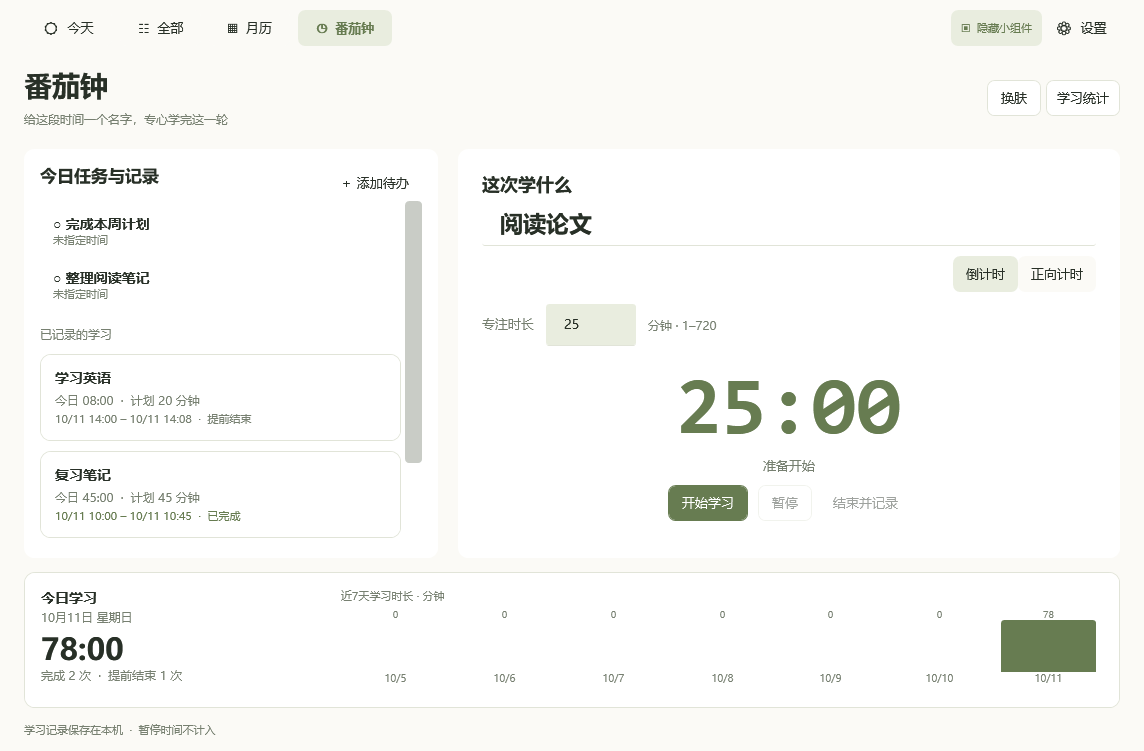
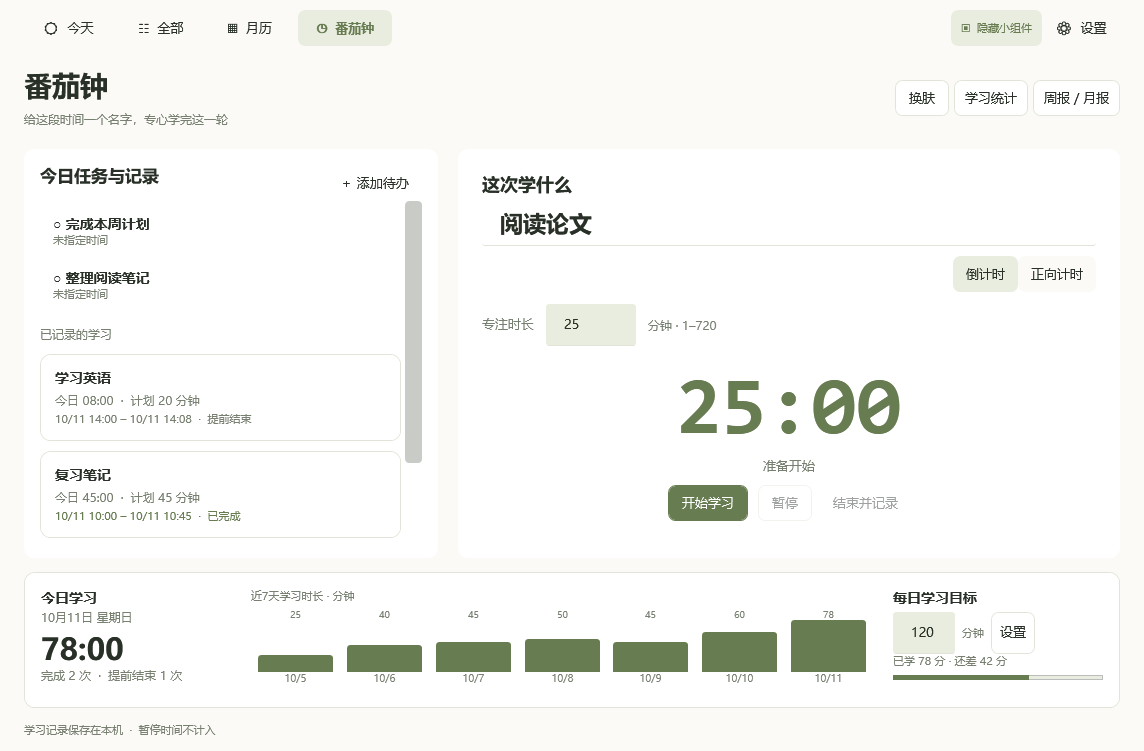
Add daily study goals, calendar period reports and todo search tags in v1.10.0

Changed region(s): [[0.2142, 0.7656, 0.979, 0.9188], [0.7955, 0.1225, 0.979, 0.1531], [0.2142, 0.7656, 0.3671, 0.8269]]

diff --git a/src/MainWindow.cs b/src/MainWindow.cs
@@ -21,6 +21,8 @@ namespace DeskTodo
         readonly Button widgetToggle;
         FocusPanel focusPanel;
         StudyStatsPanel studyStats;
+        StudyPeriodPanel studyPeriod;
+        string taskSearch = "", taskTag = "";
         string page = "月历";
         bool showCompleted = true;
         DateTime selected = DateTime.Today;
@@ -51,7 +53,7 @@ namespace DeskTodo
             status.Margin = new Thickness(0, 15, 0, 0); Grid.SetRow(status, 2); main.Children.Add(status);
         }
         public void SelectPage(string name) { page = name; Refresh(); }
-        public void RefreshFocus() { if (focusPanel != null) focusPanel.Refresh(); if (page == "学习统计" && studyStats != null) studyStats.Refresh(); }
+        public void RefreshFocus() { if (focusPanel != null) focusPanel.Refresh(); if (page == "学习统计" && studyStats != null) studyStats.Refresh(); if (page == "学习报告" && studyPeriod != null) studyPeriod.Refresh(); }
         public void SelectDay(DateTime date) { app.EnsureOccurrences(new DateTime(date.Year, date.Month, DateTime.DaysInMonth(date.Year, date.Month))); selected = date.Date; Month = new DateTime(date.Year, date.Month, 1); Refresh(); }
         public void Refresh()
         {
@@ -63,7 +65,7 @@ namespace DeskTodo
             System.Windows.Automation.AutomationProperties.SetName(widgetToggle, visible ? "隐藏桌面小组件" : "显示桌面小组件");
             foreach (var pair in navigation)
             {
-                bool active = pair.Key == page || (page == "学习统计" && pair.Key == "番茄钟");
+                bool active = pair.Key == page || ((page == "学习统计" || page == "学习报告") && pair.Key == "番茄钟");
                 pair.Value.SetResourceReference(Button.BackgroundProperty, active ? "Soft" : "Surface");
                 pair.Value.SetResourceReference(Button.ForegroundProperty, active ? "Accent" : "Text");
                 pair.Value.FontWeight = active ? FontWeights.SemiBold : FontWeights.Normal;
@@ -78,17 +80,21 @@ namespace DeskTodo
             }
             else if (page == "番茄钟") { heading.Text = "番茄钟"; subtitle.Text = "给这段时间一个名字，专心学完这一轮"; }
             else if (page == "学习统计") { heading.Text = "学习统计"; subtitle.Text = "看看时间去了哪里，也看看自己走了多远"; }
+            else if (page == "学习报告") { heading.Text = "学习周报与月报"; subtitle.Text = "按自然周和自然月回顾实际学习时间"; }
             else { heading.Text = page == "今天" ? "今天" : "全部待办"; subtitle.Text = page == "今天" ? DateTime.Today.ToString("M月d日 dddd") : "有日期与无日期的待办都在这里"; }
             Button theme = null; theme = Ui.Button("换肤", () => app.ThemeMenu(theme)); theme.Margin = new Thickness(8, 0, 0, 0); tools.Children.Add(theme);
             if (page == "番茄钟") AddTool("学习统计", () => SelectPage("学习统计"));
             if (page == "学习统计") AddTool("返回番茄钟", () => SelectPage("番茄钟"));
-            if (page != "番茄钟" && page != "学习统计") { var add = Ui.Button("＋ 添加", () => app.Edit(null, page == "全部" ? (DateTime?)null : page == "今天" ? DateTime.Today : selected), "Primary"); add.Margin = new Thickness(8, 0, 0, 0); tools.Children.Add(add); }
+            if (page == "学习统计" || page == "番茄钟") AddTool("周报 / 月报", () => SelectPage("学习报告"));
+            if (page == "学习报告") { AddTool("学习统计", () => SelectPage("学习统计")); AddTool("返回番茄钟", () => SelectPage("番茄钟")); }
+            if (page != "番茄钟" && page != "学习统计" && page != "学习报告") { var add = Ui.Button("＋ 添加", () => app.Edit(null, page == "全部" ? (DateTime?)null : page == "今天" ? DateTime.Today : selected), "Primary"); add.Margin = new Thickness(8, 0, 0, 0); tools.Children.Add(add); }
             body.Children.Clear(); body.ColumnDefinitions.Clear(); body.RowDefinitions.Clear();
-            if (page == "学习统计") { if (studyStats == null) studyStats = new StudyStatsPanel(app); body.Children.Add(studyStats); studyStats.Refresh(true); }
+            if (page == "学习报告") { if (studyPeriod == null) studyPeriod = new StudyPeriodPanel(app); body.Children.Add(studyPeriod); studyPeriod.Refresh(true); }
+            else if (page == "学习统计") { if (studyStats == null) studyStats = new StudyStatsPanel(app); body.Children.Add(studyStats); studyStats.Refresh(true); }
             else if (page == "番茄钟") { if (focusPanel == null) focusPanel = new FocusPanel(app); body.Children.Add(focusPanel); focusPanel.Refresh(true); }
             else if (page == "月历") RenderCalendar(); else RenderList();
             int pending = app.Store.State.Items.Count(i => !i.Done);
-            status.Text = page == "番茄钟" || page == "学习统计" ? "学习记录保存在本机  ·  暂停时间不计入" : "本地已保存  ·  " + pending + " 件未完成" + (app.CanUndo ? "  ·  可撤销最近一次删除" : "");
+            status.Text = page == "番茄钟" || page == "学习统计" || page == "学习报告" ? "学习记录保存在本机  ·  暂停时间不计入" : "本地已保存  ·  " + pending + " 件未完成" + (app.CanUndo ? "  ·  可撤销最近一次删除" : "");
         }
         void AddTool(string text, Action action, double width = 0)
         {
@@ -143,7 +149,22 @@ namespace DeskTodo
             filter.Click += (s, e) => { showCompleted = filter.IsChecked == true; Refresh(); }; bar.Children.Add(filter);
             if (app.CanUndo) { var undo = Ui.Button("撤销删除", app.UndoDelete, "Quiet"); undo.Margin = new Thickness(20, 0, 0, 0); bar.Children.Add(undo); }
             var list = new StackPanel(); panel.Children.Add(Ui.Scroll(list));
-            var items = app.Store.State.Items.Where(i => showCompleted || !i.Done).ToList();
+            if (page == "全部")
+            {
+                var search = new TextBox { Text = taskSearch, Width = 280, MaxLength = 200, Margin = new Thickness(20, 0, 12, 0), ToolTip = "搜索标题、备注、地点和标签" }; System.Windows.Automation.AutomationProperties.SetName(search, "待办搜索"); bar.Children.Add(search);
+                var tagChoices = new[] { "全部标签" }.Concat(app.Store.State.Items.SelectMany(i => i.Tags).Distinct(StringComparer.OrdinalIgnoreCase).OrderBy(t => t).Select(t => "#" + t)).ToList();
+                int tagIndex = taskTag == "" ? 0 : tagChoices.FindIndex(1, t => String.Equals(t, "#" + taskTag, StringComparison.OrdinalIgnoreCase)); if (tagIndex < 0) { tagIndex = 0; taskTag = ""; }
+                var tags = new ComboBox { Width = 150, ItemsSource = tagChoices, SelectedIndex = tagIndex }; System.Windows.Automation.AutomationProperties.SetName(tags, "待办标签筛选"); bar.Children.Add(tags);
+                search.TextChanged += (s, e) => { taskSearch = search.Text; FillList(list); };
+                tags.SelectionChanged += (s, e) => { taskTag = tags.SelectedIndex <= 0 ? "" : ((string)tags.SelectedItem).Substring(1); FillList(list); };
+                var clear = Ui.Button("清除", () => { search.Text = ""; tags.SelectedIndex = 0; }, "Quiet"); bar.Children.Add(clear);
+            }
+            FillList(list);
+        }
+        void FillList(StackPanel list)
+        {
+            list.Children.Clear();
+            var items = app.Store.State.Items.Where(i => (showCompleted || !i.Done) && (page != "全部" || TodoSearch.Matches(i, taskSearch, taskTag))).ToList();
             if (page == "今天")
             {
                 var overdue = items.Where(i => Dates.Overdue(i, DateTime.Today)).OrderByDescending(i => i.Important).ThenBy(i => i.Date).ThenBy(i => i.Time ?? "99:99").ToList();
@@ -155,7 +176,7 @@ namespace DeskTodo
             }
             else
             {
-                if (items.Count == 0) Ui.Empty(list, "还没有待办", "添加第一件事，也可以先不设日期");
+                if (items.Count == 0) Ui.Empty(list, "没有匹配的待办", "清除搜索或标签筛选，也可以添加新的待办");
                 else foreach (var group in items.GroupBy(TodoGroups.Key).OrderBy(g => g.All(i => i.Done)).ThenByDescending(g => g.Any(i => i.Important)).ThenBy(g => g.Min(i => i.Date ?? "9999-99-99")).ThenBy(g => g.Min(i => i.Time ?? "99:99")))
                 {
                     var occurrences = group.OrderBy(i => i.Date).ThenBy(i => i.Time ?? "99:99").ThenBy(i => i.CreatedUtc).ToList();

diff --git a/src/UiSmoke.cs b/src/UiSmoke.cs
@@ -179,6 +179,7 @@ namespace DeskTodo
                 Check(Controls<ComboBox>(editor).Any(c => AutomationProperties.GetName(c) == "待办小时") && Controls<ComboBox>(editor).Any(c => AutomationProperties.GetName(c) == "待办分钟"), "editor offers hour and minute selection");
                 Controls<TextBox>(editor).First(t => AutomationProperties.GetName(t) == "待办标题").Text = "界面输入测试";
                 Controls<TextBox>(editor).First(t => AutomationProperties.GetName(t) == "待办地点").Text = "会议室 A";
+                Controls<TextBox>(editor).First(t => AutomationProperties.GetName(t) == "待办标签").Text = "工作，会议,工作";
                 var timedCheck = Controls<CheckBox>(editor).First(c => (c.Content as string) == "指定时间");
                 timedCheck.IsChecked = true; timedCheck.RaiseEvent(new RoutedEventArgs(ButtonBase.ClickEvent));
                 var hourChoice = Controls<ComboBox>(editor).First(c => AutomationProperties.GetName(c) == "待办小时");
@@ -194,6 +195,7 @@ namespace DeskTodo
                 Controls<Button>(editor).First(b => (b.Content as string) == "保存待办").RaiseEvent(new RoutedEventArgs(Button.ClickEvent));
                 Check(app.Store.State.Items.Any(i => i.Title == "界面输入测试"), "real editor save button adds task");
                 Check(app.Store.State.Items.Any(i => i.Title == "界面输入测试" && i.Time == "14:35" && i.Location == "会议室 A"), "editor saves chosen time and location");
+                Check(app.Store.State.Items.First(i => i.Title == "界面输入测试").Tags.SequenceEqual(new[] { "工作", "会议" }), "editor persists deduplicated tags");
                 Check(app.Widget.DisplayedCount == 4, "real editor synchronizes widget");
                 app.Widget.UpdateLayout();
                 Check(Controls<TextBlock>(app.Widget).Any(t => t.Text.Contains("14:35")) && Controls<TextBlock>(app.Widget).Any(t => t.Text.Contains("会议室 A")), "widget displays time and location");
@@ -374,6 +376,34 @@ namespace DeskTodo
                 foreach (string skin in new[] { "light", "dark", "warm" }) { app.ChangeTheme(skin); app.Main.UpdateLayout(); Capture(app.Main, Path.Combine(root, "study-statistics-" + skin + ".png")); }
                 var statsPage = Controls<StudyStatsPanel>(app.Main).First(); statsPage.ScrollToBottom(); app.Main.UpdateLayout(); Capture(app.Main, Path.Combine(root, "study-records.png")); statsPage.ScrollToTop();
                 app.Main.Width = 960; app.Main.Height = 650; app.Main.UpdateLayout(); Capture(app.Main, Path.Combine(root, "study-statistics-small.png")); app.Main.Width = 1160; app.Main.Height = 790;
+                app.Main.SelectPage("番茄钟");
+                var dailyGoal = Controls<TextBox>(app.Main).First(t => AutomationProperties.GetName(t) == "每日目标分钟"); dailyGoal.Text = "120";
+                Controls<Button>(app.Main).First(b => AutomationProperties.GetName(b) == "保存每日目标").RaiseEvent(new RoutedEventArgs(Button.ClickEvent));
+                Check(app.Store.State.DailyGoalMinutes == 120 && DataStore.ReadState(Path.Combine(app.Store.DirectoryPath, "tasks.json")).DailyGoalMinutes == 120, "daily goal saves through atomic storage");
+                Check(Controls<TextBlock>(app.Main).Any(t => t.Text == "已学 78 分 · 还差 42 分"), "daily goal uses actual completed and early-ended time");
+                dailyGoal.Text = "60"; Controls<Button>(app.Main).First(b => AutomationProperties.GetName(b) == "保存每日目标").RaiseEvent(new RoutedEventArgs(Button.ClickEvent));
+                Check(Controls<TextBlock>(app.Main).Any(t => t.Text == "今日目标已达成 ✓"), "goal completion appears without changing task state");
+                dailyGoal.Text = "1441"; Controls<Button>(app.Main).First(b => AutomationProperties.GetName(b) == "保存每日目标").RaiseEvent(new RoutedEventArgs(Button.ClickEvent));
+                Check(app.Store.State.DailyGoalMinutes == 60 && Controls<TextBlock>(app.Main).Any(t => t.Text == "请输入 0–1440 分钟"), "invalid goal leaves saved target intact");
+                dailyGoal.Text = "120"; Controls<Button>(app.Main).First(b => AutomationProperties.GetName(b) == "保存每日目标").RaiseEvent(new RoutedEventArgs(Button.ClickEvent)); app.Main.UpdateLayout(); Capture(app.Main, Path.Combine(root, "daily-goal.png"));
+                Controls<Button>(app.Main).First(b => (b.Content as string) == "周报 / 月报").RaiseEvent(new RoutedEventArgs(Button.ClickEvent)); app.Main.UpdateLayout();
+                Check(Controls<TextBlock>(app.Main).Any(t => t.Text.StartsWith("比上周同期")) && Controls<TextBlock>(app.Main).Any(t => t.Text == "主要学习内容"), "weekly report shows comparison and learning breakdown"); Capture(app.Main, Path.Combine(root, "study-weekly.png"));
+                var reportMode = Controls<ComboBox>(app.Main).First(c => AutomationProperties.GetName(c) == "学习报告周期"); reportMode.SelectedIndex = 1; app.Main.UpdateLayout();
+                Check(Controls<TextBlock>(app.Main).Any(t => t.Text.StartsWith("比上月同期")), "monthly report uses calendar month and prior month comparison"); Capture(app.Main, Path.Combine(root, "study-monthly.png"));
+                app.Main.Width = 960; app.Main.Height = 650; app.Main.UpdateLayout(); Capture(app.Main, Path.Combine(root, "study-monthly-small.png")); app.Main.Width = 1160; app.Main.Height = 790;
+                Controls<DatePicker>(app.Main).First(p => AutomationProperties.GetName(p) == "学习报告日期").SelectedDate = DateTime.Today.AddYears(-2);
+                Check(Controls<TextBlock>(app.Main).Any(t => t.Text == "本期还没有学习时长"), "empty historical report shows no fabricated activity");
+                var searchable = new TodoItem { Id = Guid.NewGuid().ToString("N"), Title = "组会资料整理", Location = "B528", Note = "准备报告", Tags = new List<string> { "科研", "全部标签" } }; app.SaveTodo(searchable, null, null);
+                app.SaveTodo(new TodoItem { Id = Guid.NewGuid().ToString("N"), Title = "参会事项", Location = "A228", Tags = new List<string> { "会议" } }, null, null); app.Main.SelectPage("全部");
+                var taskSearch = Controls<TextBox>(app.Main).First(t => AutomationProperties.GetName(t) == "待办搜索"); taskSearch.Text = "B528"; app.Main.UpdateLayout();
+                Check(Controls<CheckBox>(app.Main).Count(c => AutomationProperties.GetName(c).StartsWith("完成 ")) == 1 && Controls<TextBlock>(app.Main).Any(t => t.Text == "组会资料整理"), "todo location search narrows real task list");
+                var tagFilter = Controls<ComboBox>(app.Main).First(c => AutomationProperties.GetName(c) == "待办标签筛选"); tagFilter.SelectedItem = "#科研";
+                Check(Controls<TextBlock>(app.Main).Any(t => t.Text.Contains("#科研")), "matching tag and query show task labels"); Capture(app.Main, Path.Combine(root, "todo-search-tags.png"));
+                tagFilter.SelectedItem = "#会议"; Check(Controls<TextBlock>(app.Main).Any(t => t.Text == "没有匹配的待办"), "combined todo filters exclude unrelated tasks");
+                Controls<Button>(app.Main).First(b => (b.Content as string) == "清除").RaiseEvent(new RoutedEventArgs(Button.ClickEvent));
+                Check(taskSearch.Text == "" && tagFilter.SelectedIndex == 0, "clear restores all todo filters");
+                tagFilter.SelectedIndex = ((List<string>)tagFilter.ItemsSource).FindLastIndex(t => t == "#全部标签"); app.Main.Refresh(); app.Main.UpdateLayout();
+                Check(Controls<ComboBox>(app.Main).First(c => AutomationProperties.GetName(c) == "待办标签筛选").SelectedIndex > 0 && Controls<CheckBox>(app.Main).Count(c => AutomationProperties.GetName(c).StartsWith("完成 ")) == 1, "a tag named all tags remains a real filter across refresh");
                 app.Main.SelectPage("月历");
                 app.Main.Close();
                 Check(!app.Main.IsVisible && app.Widget.IsVisible, "closing main leaves widget running");

diff --git a/src/Core.cs b/src/Core.cs
@@ -17,13 +17,24 @@ namespace DeskTodo
         [DataMember(EmitDefaultValue = false)] public string Time;
         [DataMember(EmitDefaultValue = false)] public string Location;
         [DataMember] public string Note = "";
+        [DataMember] public List<string> Tags = new List<string>();
+        [OnDeserializing] void Defaults(StreamingContext c) { Tags = new List<string>(); }
         [DataMember] public string CreatedUtc;
         [DataMember] public bool Done;
         [DataMember(EmitDefaultValue = false)] public bool Important;
         [DataMember(EmitDefaultValue = false)] public bool Reminder;
         [DataMember(EmitDefaultValue = false)] public string NotifiedFor;
         [DataMember(EmitDefaultValue = false)] public string SeriesId;
-        public TodoItem Copy() { return (TodoItem)MemberwiseClone(); }
+        public TodoItem Copy() { var copy = (TodoItem)MemberwiseClone(); copy.Tags = Tags == null ? null : new List<string>(Tags); return copy; }
+    }
+
+    public static class TodoSearch
+    {
+        public static List<string> ParseTags(string text) { return (text ?? "").Split(new[] { ',', '，', ';', '；' }, StringSplitOptions.RemoveEmptyEntries).Select(t => t.Trim()).Where(t => t.Length > 0).Distinct(StringComparer.OrdinalIgnoreCase).ToList(); }
+        public static bool Matches(TodoItem item, string query, string tag)
+        {
+            return (String.IsNullOrEmpty(tag) || item.Tags.Contains(tag, StringComparer.OrdinalIgnoreCase)) && (String.IsNullOrWhiteSpace(query) || new[] { item.Title, item.Note, item.Location, String.Join(" ", item.Tags) }.Any(value => value != null && value.IndexOf(query.Trim(), StringComparison.OrdinalIgnoreCase) >= 0));
+        }
     }
 
     public static class TodoGroups
@@ -32,23 +43,25 @@ namespace DeskTodo
         {
             if (item.SeriesId != null) return "series:" + item.SeriesId;
             if (item.Date == null) return "item:" + item.Id;
-            return "dated:" + String.Concat(new[] { item.Title, item.Time ?? "", item.Location ?? "", item.Note ?? "", item.Reminder.ToString() }.Select(value => value.Length.ToString(CultureInfo.InvariantCulture) + ":" + value));
+            return "dated:" + String.Concat(new[] { item.Title, item.Time ?? "", item.Location ?? "", item.Note ?? "", item.Reminder.ToString(), String.Join("\u001f", item.Tags.OrderBy(t => t, StringComparer.OrdinalIgnoreCase)) }.Select(value => value.Length.ToString(CultureInfo.InvariantCulture) + ":" + value));
         }
     }
 
     [DataContract]
     public class TodoState
     {
-        [DataMember(IsRequired = true)] public int Version = 5;
+        [DataMember(IsRequired = true)] public int Version = 6;
+        [DataMember] public int DailyGoalMinutes;
         [DataMember(IsRequired = true)] public List<TodoItem> Items = new List<TodoItem>();
         [DataMember] public List<RepeatSeries> Series = new List<RepeatSeries>();
         [DataMember] public List<FocusSession> FocusHistory = new List<FocusSession>();
         [DataMember(EmitDefaultValue = false)] public FocusSession ActiveFocus;
         [OnDeserializing] void Defaults(StreamingContext c) { Series = new List<RepeatSeries>(); FocusHistory = new List<FocusSession>(); }
-        public TodoState Copy() { return new TodoState { Items = Items.Select(i => i.Copy()).ToList(), Series = Series.Select(s => s.Copy()).ToList(), FocusHistory = FocusHistory.Select(f => f.Copy()).ToList(), ActiveFocus = ActiveFocus == null ? null : ActiveFocus.Copy() }; }
+        public TodoState Copy() { return new TodoState { DailyGoalMinutes = DailyGoalMinutes, Items = Items.Select(i => i.Copy()).ToList(), Series = Series.Select(s => s.Copy()).ToList(), FocusHistory = FocusHistory.Select(f => f.Copy()).ToList(), ActiveFocus = ActiveFocus == null ? null : ActiveFocus.Copy() }; }
         public void Validate()
         {
-            if (Version < 1 || Version > 5) throw new InvalidDataException("不支持这个数据版本，请使用对应版本的软件。");
+            if (Version < 1 || Version > 6) throw new InvalidDataException("不支持这个数据版本，请使用对应版本的软件。");
+            if (DailyGoalMinutes < 0 || DailyGoalMinutes > 1440) throw new InvalidDataException("每日目标应为 0 至 1440 分钟，0 表示关闭目标。");
             if (FocusHistory == null || FocusHistory.Count > 10000) throw new InvalidDataException("学习记录无效或超过 10000 次，请先导出备份。");
             var focusIds = new HashSet<string>();
             foreach (var focus in FocusHistory) { if (focus == null || !focusIds.Add(focus.Id)) throw new InvalidDataException("学习记录重复或无效。"); focus.Validate(false); }
@@ -69,6 +82,7 @@ namespace DeskTodo
                 if (i == null || !Guid.TryParse(i.Id, out id) || !ids.Add(i.Id)) throw new InvalidDataException("待办编号无效或重复。");
                 if (String.IsNullOrWhiteSpace(i.Title) || i.Title.Length > 200) throw new InvalidDataException("标题不能为空，最多 200 字。");
                 if (i.Note != null && i.Note.Length > 4000) throw new InvalidDataException("备注最多 4000 字。");
+                if (i.Tags == null || i.Tags.Count > 10 || i.Tags.Any(t => String.IsNullOrWhiteSpace(t) || t != t.Trim() || t.Length > 20 || t.IndexOfAny(new[] { ',', '，', ';', '；' }) >= 0) || i.Tags.Distinct(StringComparer.OrdinalIgnoreCase).Count() != i.Tags.Count) throw new InvalidDataException("最多 10 个标签，每个最多 20 字，不能重复或含分隔符。");
                 DateTime parsed;
                 if (i.Date != null && !DateTime.TryParseExact(i.Date, "yyyy-MM-dd", CultureInfo.InvariantCulture, DateTimeStyles.None, out parsed)) throw new InvalidDataException("待办日期无效。");
                 if (i.Time != null && (i.Date == null || !DateTime.TryParseExact(i.Time, "HH:mm", CultureInfo.InvariantCulture, DateTimeStyles.None, out parsed))) throw new InvalidDataException("时间需要指定日期，并使用 00:00 至 23:59 的格式。");
@@ -116,6 +130,12 @@ namespace DeskTodo
 
     public static class Study
     {
+        public static DateTime[] PeriodRange(DateTime day, bool monthly)
+        {
+            day = day.Date;
+            var start = monthly ? new DateTime(day.Year, day.Month, 1) : day.AddDays(-((int)day.DayOfWeek + 6) % 7);
+            return new[] { start, monthly ? start.AddDays(DateTime.DaysInMonth(day.Year, day.Month) - 1) : start.AddDays(6) };
+        }
         public static void Start(TodoState state, string title, int minutes, DateTimeOffset now, bool countUp = false)
         {
             if (state.ActiveFocus != null) throw new InvalidOperationException("请先结束当前学习。");
@@ -365,7 +385,7 @@ namespace DeskTodo
         void Commit(TodoState next)
         {
             if (lease == null) throw new ObjectDisposedException("DataStore");
-            next.Validate(); next.Version = 5; JsonFile.Write(FilePath, next); State = next;
+            next.Validate(); next.Version = 6; JsonFile.Write(FilePath, next); State = next;
         }
         public void Change(Action<List<TodoItem>> edit) { var next = State.Copy(); edit(next.Items); Commit(next); }
         public void ChangeState(Action<TodoState> edit) { var next = State.Copy(); edit(next); Commit(next); }

diff --git a/src/StudyStats.cs b/src/StudyStats.cs
@@ -10,6 +10,49 @@ using System.Windows.Media;
 
 namespace DeskTodo
 {
+    public class StudyPeriodPanel : ScrollViewer
+    {
+        readonly AppController app;
+        readonly StackPanel root = new StackPanel(), reportContent = new StackPanel();
+        readonly ComboBox mode = new ComboBox { ItemsSource = new[] { "周报", "月报" }, SelectedIndex = 0, Width = 100 };
+        readonly DatePicker date = new DatePicker { SelectedDate = DateTime.Today, FirstDayOfWeek = DayOfWeek.Monday, Width = 160 };
+        string reportKey;
+        public StudyPeriodPanel(AppController controller)
+        {
+            app = controller; Content = root; VerticalScrollBarVisibility = ScrollBarVisibility.Auto; HorizontalScrollBarVisibility = ScrollBarVisibility.Disabled;
+            var bar = new StackPanel { Orientation = Orientation.Horizontal, Margin = new Thickness(0, 0, 0, 18) }; AutomationProperties.SetName(mode, "学习报告周期"); AutomationProperties.SetName(date, "学习报告日期"); date.DisplayDateStart = new DateTime(2, 1, 1); date.DisplayDateEnd = DateTime.Today;
+            bar.Children.Add(mode); date.Margin = new Thickness(12, 0, 12, 0); bar.Children.Add(date); bar.Children.Add(Ui.Button("本期", () => date.SelectedDate = DateTime.Today)); root.Children.Add(bar); root.Children.Add(reportContent);
+            mode.SelectionChanged += (s, e) => Refresh(true); date.SelectedDateChanged += (s, e) => Refresh(true); Refresh(true);
+        }
+        static string Duration(double seconds) { return ((int)(seconds / 3600)) + " 小时 " + ((int)(seconds % 3600 / 60)) + " 分"; }
+        static Border Metric(string title, string value) { var panel = new StackPanel(); panel.Children.Add(Ui.Text(title, 12, "Muted")); var number = Ui.Text(value, 24, "Accent", true); number.Margin = new Thickness(0, 8, 0, 0); panel.Children.Add(number); var card = Ui.Card(panel, new Thickness(16)); card.Margin = new Thickness(0, 0, 12, 0); return card; }
+        public void Refresh(bool force = false)
+        {
+            date.DisplayDateEnd = DateTime.Today; var chosen = (date.SelectedDate ?? DateTime.Today).Date; if (chosen > DateTime.Today) chosen = DateTime.Today;
+            string key = Dates.Key(chosen) + ":" + Dates.Key(DateTime.Today) + ":" + mode.SelectedIndex + ":" + app.Store.State.FocusHistory.Count + ":" + (app.Store.State.FocusHistory.LastOrDefault() == null ? "" : app.Store.State.FocusHistory.Last().Id) + ":" + (app.Store.State.ActiveFocus == null ? "" : app.Store.State.ActiveFocus.Id) + ":" + Math.Floor(app.FocusSeconds / 5);
+            if (!force && key == reportKey) return; reportKey = key;
+            bool monthly = mode.SelectedIndex == 1; var range = Study.PeriodRange(chosen, monthly); var end = range[1] < DateTime.Today ? range[1] : DateTime.Today;
+            var sessions = app.Store.State.FocusHistory.ToList(); var active = app.FocusSnapshot(); if (active != null) sessions.Add(active); var report = Study.Summarize(sessions, range[0], end);
+            var prior = Study.PeriodRange(monthly ? range[0].AddMonths(-1) : range[0].AddDays(-7), monthly); var previousEnd = prior[0].AddDays((end - range[0]).Days); if (previousEnd > prior[1]) previousEnd = prior[1]; var previous = Study.Summarize(sessions, prior[0], previousEnd);
+            reportContent.Children.Clear(); var heading = Ui.Text(range[0].ToString("yyyy年M月d日") + " – " + range[1].ToString("M月d日"), 23, "Text", true); reportContent.Children.Add(heading);
+            var hint = Ui.Text("统计至 " + end.ToString("M月d日") + " · 实际计时，含提前结束与进行中的学习 · 不包含待办", 12, "Muted"); hint.Margin = new Thickness(0, 6, 0, 18); reportContent.Children.Add(hint);
+            var summary = new UniformGrid { Columns = 4, Margin = new Thickness(0, 0, 0, 18) }; summary.Children.Add(Metric("学习总时长", Duration(report.TotalSeconds))); summary.Children.Add(Metric("学习天数", report.SecondsByDay.Count(p => p.Value > 0) + " 天")); summary.Children.Add(Metric("完成次数", report.Completed + " 次")); summary.Children.Add(Metric("日均时长（含未学习日）", Duration(report.TotalSeconds / report.SecondsByDay.Count))); reportContent.Children.Add(summary);
+            double difference = report.TotalSeconds - previous.TotalSeconds;
+            var compare = Ui.Text("比上" + (monthly ? "月" : "周") + "同期" + (difference >= 0 ? "增加 " : "减少 ") + Duration(Math.Abs(difference)) + " · 对比 " + prior[0].ToString("M/d") + " – " + previousEnd.ToString("M/d"), 13, "Muted"); compare.Margin = new Thickness(0, 0, 0, 18); reportContent.Children.Add(compare);
+            var chartPanel = new StackPanel(); chartPanel.Children.Add(Ui.Text("每日学习时长 · 分钟", 16, "Text", true)); var chart = new UniformGrid { Columns = report.SecondsByDay.Count, Margin = new Thickness(0, 16, 0, 0) }; double max = Math.Max(60, report.SecondsByDay.Values.Max());
+            foreach (var pair in report.SecondsByDay.OrderBy(p => p.Key))
+            {
+                var column = new StackPanel { Margin = new Thickness(monthly ? 2 : 8, 0, monthly ? 2 : 8, 0), ToolTip = pair.Key + " · " + Duration(pair.Value) }; var value = Ui.Text((pair.Value / 60).ToString("0.#"), monthly ? 9 : 11, "Muted"); value.TextAlignment = TextAlignment.Center; column.Children.Add(value);
+                var plot = new Grid { Height = 140 }; var fill = new Border { Height = pair.Value / max * 140, VerticalAlignment = VerticalAlignment.Bottom, CornerRadius = new CornerRadius(3, 3, 0, 0) }; fill.SetResourceReference(Border.BackgroundProperty, "Accent"); plot.Children.Add(fill); column.Children.Add(plot);
+                var label = Ui.Text(DateTime.ParseExact(pair.Key, "yyyy-MM-dd", CultureInfo.InvariantCulture).ToString(monthly ? "%d" : "M/d"), 10, "Muted"); label.TextAlignment = TextAlignment.Center; label.Margin = new Thickness(0, 6, 0, 0); column.Children.Add(label); chart.Children.Add(column);
+            }
+            chartPanel.Children.Add(chart); var chartCard = Ui.Card(chartPanel, new Thickness(18)); chartCard.Margin = new Thickness(0, 0, 0, 18); reportContent.Children.Add(chartCard);
+            var ranking = new StackPanel(); ranking.Children.Add(Ui.Text("主要学习内容", 16, "Text", true));
+            if (report.TotalSeconds == 0) Ui.Empty(ranking, "本期还没有学习时长", "开始计时后，学习记录会自动汇总到这里");
+            foreach (var pair in report.SecondsByTitle.OrderByDescending(p => p.Value).ThenBy(p => p.Key).Take(5)) { var item = Ui.Text(pair.Key + "  ·  " + Duration(pair.Value) + "  ·  " + (pair.Value / report.TotalSeconds * 100).ToString("0.#") + "%", 13, "Text"); item.Margin = new Thickness(0, 10, 0, 0); ranking.Children.Add(item); }
+            var best = report.SecondsByDay.OrderByDescending(p => p.Value).ThenBy(p => p.Key).First(); if (best.Value > 0) { var peak = Ui.Text("学习最多的一天：" + best.Key + " · " + Duration(best.Value), 12, "Muted"); peak.Margin = new Thickness(0, 16, 0, 0); ranking.Children.Add(peak); } reportContent.Children.Add(Ui.Card(ranking, new Thickness(18)));
+        }
+    }
     public class StudyStatsPanel : ScrollViewer
     {
         readonly AppController app;

diff --git a/src/Focus.cs b/src/Focus.cs
@@ -122,6 +122,9 @@ namespace DeskTodo
         readonly TextBlock total = Ui.Text("00:00", 32, "Text", true);
         readonly TextBlock count = Ui.Text("", 12, "Muted");
         readonly StackPanel history = new StackPanel();
+        readonly TextBox goalMinutes = new TextBox { Width = 62, MaxLength = 4, ToolTip = "每天 1–1440 分钟；填 0 关闭目标" };
+        readonly TextBlock goalStatus = Ui.Text("", 11, "Muted");
+        readonly ProgressBar goalProgress = new ProgressBar { Minimum = 0, Maximum = 100, Height = 5, Margin = new Thickness(0, 7, 0, 0) };
         readonly Button start, pause, finish;
         Button downMode, upMode;
         readonly StackPanel taskList = new StackPanel();
@@ -152,9 +155,13 @@ namespace DeskTodo
             var addTask = Ui.Button("＋ 添加待办", () => app.Edit(null, DateTime.Today), "Quiet"); DockPanel.SetDock(addTask, Dock.Right); listHeader.Children.Add(addTask); listHeader.Children.Add(Ui.Text("今日任务与记录", 17, "Text", true));
             var listContent = new StackPanel(); listContent.Children.Add(taskList); var recorded = Ui.Text("已记录的学习", 12, "Muted"); recorded.Margin = new Thickness(0, 18, 0, 12); listContent.Children.Add(recorded); listContent.Children.Add(history);
             stats.Children.Add(Ui.Scroll(listContent)); var statsCard = Ui.Card(stats, new Thickness(16)); statsCard.BorderThickness = new Thickness(0); statsCard.Margin = new Thickness(0, 0, 0, 14); Children.Add(statsCard);
-            var band = new Grid(); band.ColumnDefinitions.Add(new ColumnDefinition { Width = new GridLength(300) }); band.ColumnDefinitions.Add(new ColumnDefinition());
+            var band = new Grid(); band.ColumnDefinitions.Add(new ColumnDefinition { Width = new GridLength(210) }); band.ColumnDefinitions.Add(new ColumnDefinition()); band.ColumnDefinitions.Add(new ColumnDefinition { Width = new GridLength(230) });
             var summary = new StackPanel(); summary.Children.Add(Ui.Text("今日学习", 14, "Text", true)); dayLabel.Margin = new Thickness(0, 3, 0, 5); summary.Children.Add(dayLabel); total.FontSize = 30; summary.Children.Add(total); summary.Children.Add(count); band.Children.Add(summary);
             var trendPanel = new StackPanel(); trendPanel.Children.Add(Ui.Text("近7天学习时长 · 分钟", 11, "Muted")); trend.Margin = new Thickness(0, 6, 0, 0); trendPanel.Children.Add(trend); Grid.SetColumn(trendPanel, 1); band.Children.Add(trendPanel);
+            var goal = new StackPanel { Margin = new Thickness(20, 0, 0, 0) }; goal.Children.Add(Ui.Text("每日学习目标", 14, "Text", true));
+            var goalRow = new StackPanel { Orientation = Orientation.Horizontal, Margin = new Thickness(0, 5, 0, 0) }; goalMinutes.Text = app.Store.State.DailyGoalMinutes.ToString(); AutomationProperties.SetName(goalMinutes, "每日目标分钟"); goalRow.Children.Add(goalMinutes);
+            var goalUnit = Ui.Text("分钟", 11, "Muted"); goalUnit.VerticalAlignment = VerticalAlignment.Center; goalUnit.Margin = new Thickness(7, 0, 7, 0); goalRow.Children.Add(goalUnit);
+            var saveGoal = Ui.Button("设置", () => { int value; if (!Int32.TryParse(goalMinutes.Text.Trim(), out value) || value < 0 || value > 1440) { goalStatus.Text = "请输入 0–1440 分钟"; return; } if (app.SetDailyGoal(value)) Refresh(); }); AutomationProperties.SetName(saveGoal, "保存每日目标"); saveGoal.Padding = new Thickness(8, 4, 8, 4); goalRow.Children.Add(saveGoal); goal.Children.Add(goalRow); goal.Children.Add(goalStatus); goalProgress.SetResourceReference(ProgressBar.ForegroundProperty, "Accent"); goalProgress.SetResourceReference(ProgressBar.BackgroundProperty, "Soft"); goal.Children.Add(goalProgress); Grid.SetColumn(goal, 2); band.Children.Add(goal);
             var bandCard = Ui.Card(band, new Thickness(16)); Grid.SetRow(bandCard, 1); Grid.SetColumnSpan(bandCard, 2); Children.Add(bandCard);
             minutes.TextChanged += (s, e) => { if (app.Store.State.ActiveFocus == null) { int value; if (Int32.TryParse(minutes.Text, out value) && value >= 1 && value <= 720) countdown.Text = Study.FormatDuration(value * 60); } };
             mode.SelectionChanged += (s, e) => Refresh();
@@ -174,6 +181,9 @@ namespace DeskTodo
             var records = app.Store.State.FocusHistory.Where(f => Study.SecondsOn(f, today) > 0 || DateTimeOffset.ParseExact(f.EndedAt, "o", CultureInfo.InvariantCulture).Date == today).ToList();
             double seconds = records.Sum(f => Study.SecondsOn(f, today)); var current = app.FocusSnapshot(); if (current != null) seconds += Study.SecondsOn(current, today);
             total.Text = Study.FormatDuration(seconds);
+            int target = app.Store.State.DailyGoalMinutes; goalProgress.Value = target == 0 ? 0 : Math.Min(100, seconds / (target * 60) * 100); goalProgress.Visibility = target == 0 ? Visibility.Collapsed : Visibility.Visible;
+            goalStatus.Text = target == 0 ? "未设置目标 · 填 0 可关闭" : seconds >= target * 60 ? "今日目标已达成 ✓" : "已学 " + (int)(seconds / 60) + " 分 · 还差 " + (int)Math.Ceiling(target - seconds / 60) + " 分";
+            if (!goalMinutes.IsKeyboardFocusWithin) goalMinutes.Text = target.ToString();
             RefreshTasksAndTrend(today, current);
             int completed = records.Count(f => f.Completed && DateTimeOffset.ParseExact(f.EndedAt, "o", CultureInfo.InvariantCulture).Date == today);
             int ended = records.Count(f => !f.Completed && DateTimeOffset.ParseExact(f.EndedAt, "o", CultureInfo.InvariantCulture).Date == today);

diff --git a/src/CoreTests.cs b/src/CoreTests.cs
@@ -16,6 +16,22 @@ class CoreTests
         Directory.CreateDirectory(root);
         try
         {
+            var tagged = Item("组会", "2026-10-11"); tagged.Tags = TodoSearch.ParseTags("科研，生活, 科研 ; Paper;paper"); tagged.Location = "B528";
+            Check(tagged.Tags.SequenceEqual(new[] { "科研", "生活", "Paper" }), "tag input trims and deduplicates Chinese and English separators");
+            Check(TodoSearch.Matches(tagged, "B528", "科研") && TodoSearch.Matches(tagged, "paper", ""), "todo search includes location and case insensitive tags");
+            Check(!TodoSearch.Matches(tagged, "组会", "课程") && !TodoSearch.Matches(tagged, "不存在", "科研"), "text and tag filters combine without unrelated matches");
+            var taggedState = new TodoState { DailyGoalMinutes = 120, Items = new List<TodoItem> { tagged } }; var tagCopy = taggedState.Copy(); tagCopy.Items[0].Tags.Add("副本");
+            Check(tagged.Tags.Count == 3 && tagCopy.DailyGoalMinutes == 120, "atomic state copies deep copy tags and preserve goal");
+            string taggedPath = Path.Combine(root, "tagged.json"); JsonFile.Write(taggedPath, taggedState); var tagRestore = DataStore.ReadState(taggedPath);
+            Check(tagRestore.DailyGoalMinutes == 120 && tagRestore.Items[0].Tags.SequenceEqual(tagged.Tags), "goals and tags survive export and reload");
+            taggedState.DailyGoalMinutes = 1441; Throws(() => taggedState.Validate(), "goal rejects more than one day"); taggedState.DailyGoalMinutes = 0; taggedState.Validate();
+            tagged.Tags.Add(new string('字', 21)); Throws(() => taggedState.Validate(), "oversized tags are rejected at storage boundary"); tagged.Tags.RemoveAt(3);
+            var weekRange = Study.PeriodRange(new DateTime(2026, 10, 11), false);
+            Check(weekRange[0] == new DateTime(2026, 10, 5) && weekRange[1] == new DateTime(2026, 10, 11), "weekly reports run Monday through Sunday");
+            var monthRange = Study.PeriodRange(new DateTime(2024, 2, 12), true);
+            Check(monthRange[0] == new DateTime(2024, 2, 1) && monthRange[1] == new DateTime(2024, 2, 29), "monthly reports use leap year calendar boundaries");
+            var yearWeek = Study.PeriodRange(new DateTime(2027, 1, 1), false);
+            Check(yearWeek[0] == new DateTime(2026, 12, 28) && yearWeek[1] == new DateTime(2027, 1, 3), "weekly report crosses year boundaries");
             var repeatedA = Item("刷网课", "2026-10-11"); var repeatedB = Item("刷网课", "2026-10-12");
             Check(TodoGroups.Key(repeatedA) == TodoGroups.Key(repeatedB), "identical dated tasks share display group without changing records");
             repeatedB.Location = "不同地点"; Check(TodoGroups.Key(repeatedA) != TodoGroups.Key(repeatedB), "same title with different task content stays separate");
@@ -150,10 +166,10 @@ class CoreTests
                 timedStore.Import(timedPath);
                 string timedExport = Path.Combine(root, "时间地点备份.json"); timedStore.Export(timedExport);
                 var roundtrip = DataStore.ReadState(timedExport);
-                Check(roundtrip.Version == 5 && roundtrip.Items[0].Time == "14:35" && roundtrip.Items[0].Location == "会议室 A", "time location backup roundtrip and new format");
+                Check(roundtrip.Version == 6 && roundtrip.Items[0].Time == "14:35" && roundtrip.Items[0].Location == "会议室 A", "time location backup roundtrip and new format");
                 JsonFile.Write(timedPath, legacyState);
                 timedStore.Import(timedPath);
-                Check(DataStore.ReadState(Path.Combine(timedStore.DirectoryPath, "tasks.json")).Version == 5, "saving legacy data upgrades format without losing records");
+                Check(DataStore.ReadState(Path.Combine(timedStore.DirectoryPath, "tasks.json")).Version == 6, "saving legacy data upgrades format without losing records");
             }
             Check(Dates.GridStart(new DateTime(2026, 10, 1)) == new DateTime(2026, 9, 28), "October Monday-first grid");
             Check(Dates.GridStart(new DateTime(2027, 1, 1)) == new DateTime(2026, 12, 28), "calendar crosses year");

diff --git a/src/Ui.cs b/src/Ui.cs
@@ -60,6 +60,7 @@ namespace DeskTodo
             if (flat) date = (item.Time ?? "未指定时间") + (String.IsNullOrWhiteSpace(item.Location) ? "" : "  ·  " + item.Location);
             var label = Text(date, 10, Dates.Overdue(item, DateTime.Today) ? "Danger" : "Muted"); label.Margin = new Thickness(0, 6, 0, 0); content.Children.Add(label);
             if (!flat && !String.IsNullOrWhiteSpace(item.Location)) { var location = Text("地点：" + item.Location, 11, "Muted"); location.MaxHeight = 34; location.Margin = new Thickness(0, 4, 0, 0); location.ToolTip = item.Location; content.Children.Add(location); }
+            if (!compact && item.Tags.Count > 0) { var tags = Text(String.Join("  ", item.Tags.Select(t => "#" + t)), 11, "Accent"); tags.Margin = new Thickness(0, 5, 0, 0); content.Children.Add(tags); }
             content.MouseLeftButtonDown += (s, e) => { if (e.ClickCount == 2) app.Edit(item, null); };
             Grid.SetColumn(content, 1); row.Children.Add(content);
             var star = Button(item.Important ? "★" : "☆", () => app.ToggleImportant(item.Id), "Quiet"); star.Padding = new Thickness(0); star.FontSize = 18; star.VerticalAlignment = VerticalAlignment.Top; star.SetResourceReference(System.Windows.Controls.Button.ForegroundProperty, item.Important ? "Accent" : "Muted"); star.ToolTip = item.Important ? "取消重要任务" : "标为重要任务"; AutomationProperties.SetName(star, "重要 " + item.Title); Grid.SetColumn(star, 2); row.Children.Add(star);
@@ -137,6 +138,8 @@ namespace DeskTodo
             var noteLabel = Ui.Text("备注（可选）", 12, "Muted"); noteLabel.Margin = new Thickness(0, 15, 0, 6); fields.Children.Add(noteLabel);
             var note = new TextBox { Text = existing == null ? "" : existing.Note ?? "", MaxLength = 4000, Height = 80, AcceptsReturn = true, TextWrapping = TextWrapping.Wrap, VerticalScrollBarVisibility = ScrollBarVisibility.Auto };
             AutomationProperties.SetName(note, "备注"); fields.Children.Add(note);
+            var tagLabel = Ui.Text("标签（可选，用逗号分隔）", 12, "Muted"); tagLabel.Margin = new Thickness(0, 15, 0, 6); fields.Children.Add(tagLabel);
+            var tags = new TextBox { Text = existing == null ? "" : String.Join("，", existing.Tags), MaxLength = 220, ToolTip = "例如：课程，论文，生活；最多 10 个，每个最多 20 字" }; AutomationProperties.SetName(tags, "待办标签"); fields.Children.Add(tags);
             var done = new CheckBox { Content = "已完成", IsChecked = existing != null && existing.Done, Margin = new Thickness(0, 14, 0, 0) }; fields.Children.Add(done);
             var error = Ui.Text("", 12, "Danger"); error.Margin = new Thickness(0, 8, 0, 0); fields.Children.Add(error);
             var save = Ui.Button("保存待办", () =>
@@ -151,6 +154,8 @@ namespace DeskTodo
                 item.Date = noDate.IsChecked == true ? null : Dates.Key(picker.SelectedDate.Value);
                 item.Time = item.Date != null && timed.IsChecked == true ? hours.SelectedItem + ":" + minutes.SelectedItem : null;
                 item.Location = String.IsNullOrWhiteSpace(location.Text) ? null : location.Text.Trim();
+                item.Tags = TodoSearch.ParseTags(tags.Text);
+                if (item.Tags.Count > 10 || item.Tags.Any(t => t.Length > 20)) { error.Text = "最多 10 个标签，每个最多 20 字。"; tags.Focus(); return; }
                 item.Important = important.IsChecked == true; item.Reminder = item.Time != null && reminder.IsChecked == true;
                 if (app.SaveTodo(item, existing, repeat.IsEnabled ? repeatKinds[repeat.SelectedIndex] : null)) Close();
             }, "Primary"); save.IsDefault = true; bottom.Children.Add(save);

diff --git a/src/App.cs b/src/App.cs
@@ -15,7 +15,7 @@ using Forms = System.Windows.Forms;
 
 [assembly: AssemblyTitle("拾序")]
 [assembly: AssemblyProduct("拾序 · 桌面待办")]
-[assembly: AssemblyVersion("1.9.0.0")]
+[assembly: AssemblyVersion("1.10.0.0")]
 
 namespace DeskTodo
 {
@@ -194,6 +194,11 @@ namespace DeskTodo
             catch (Exception ex) { if (TestMode) throw; Error("保存失败", ex); return false; }
         }
         public void ToggleImportant(string id) { Mutate(items => { var item = items.First(i => i.Id == id); item.Important = !item.Important; }); }
+        public bool SetDailyGoal(int minutes)
+        {
+            try { Store.ChangeState(state => state.DailyGoalMinutes = minutes); Main.RefreshFocus(); return true; }
+            catch (Exception ex) { if (TestMode) throw; Error("学习目标保存失败", ex); return false; }
+        }
         public void StopRepeating(TodoItem item)
         {
             if (item.SeriesId == null) return;
